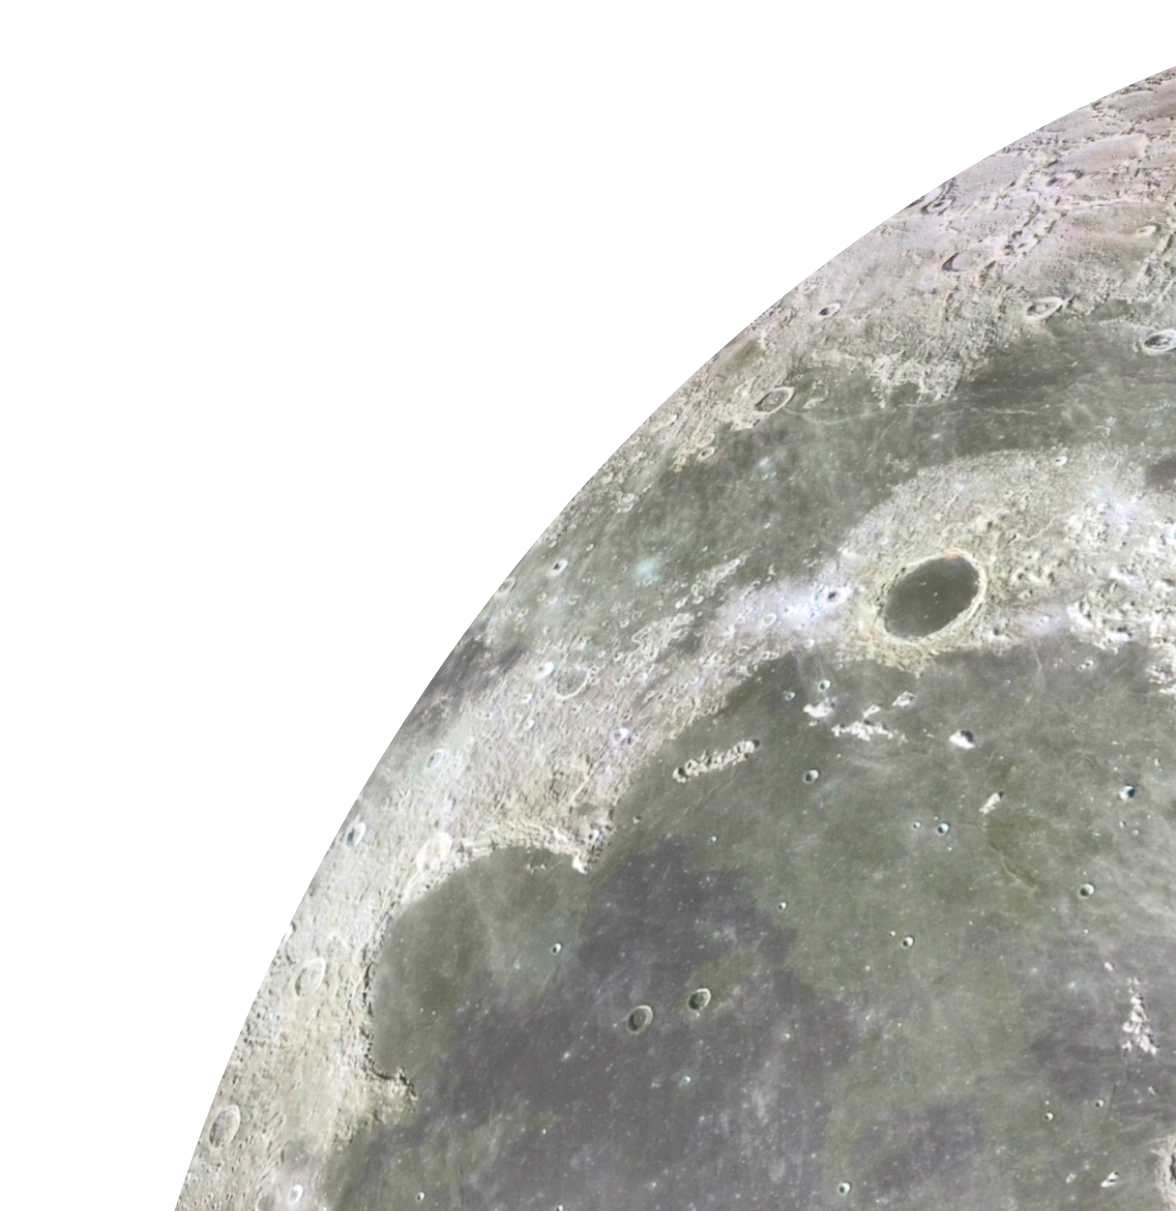
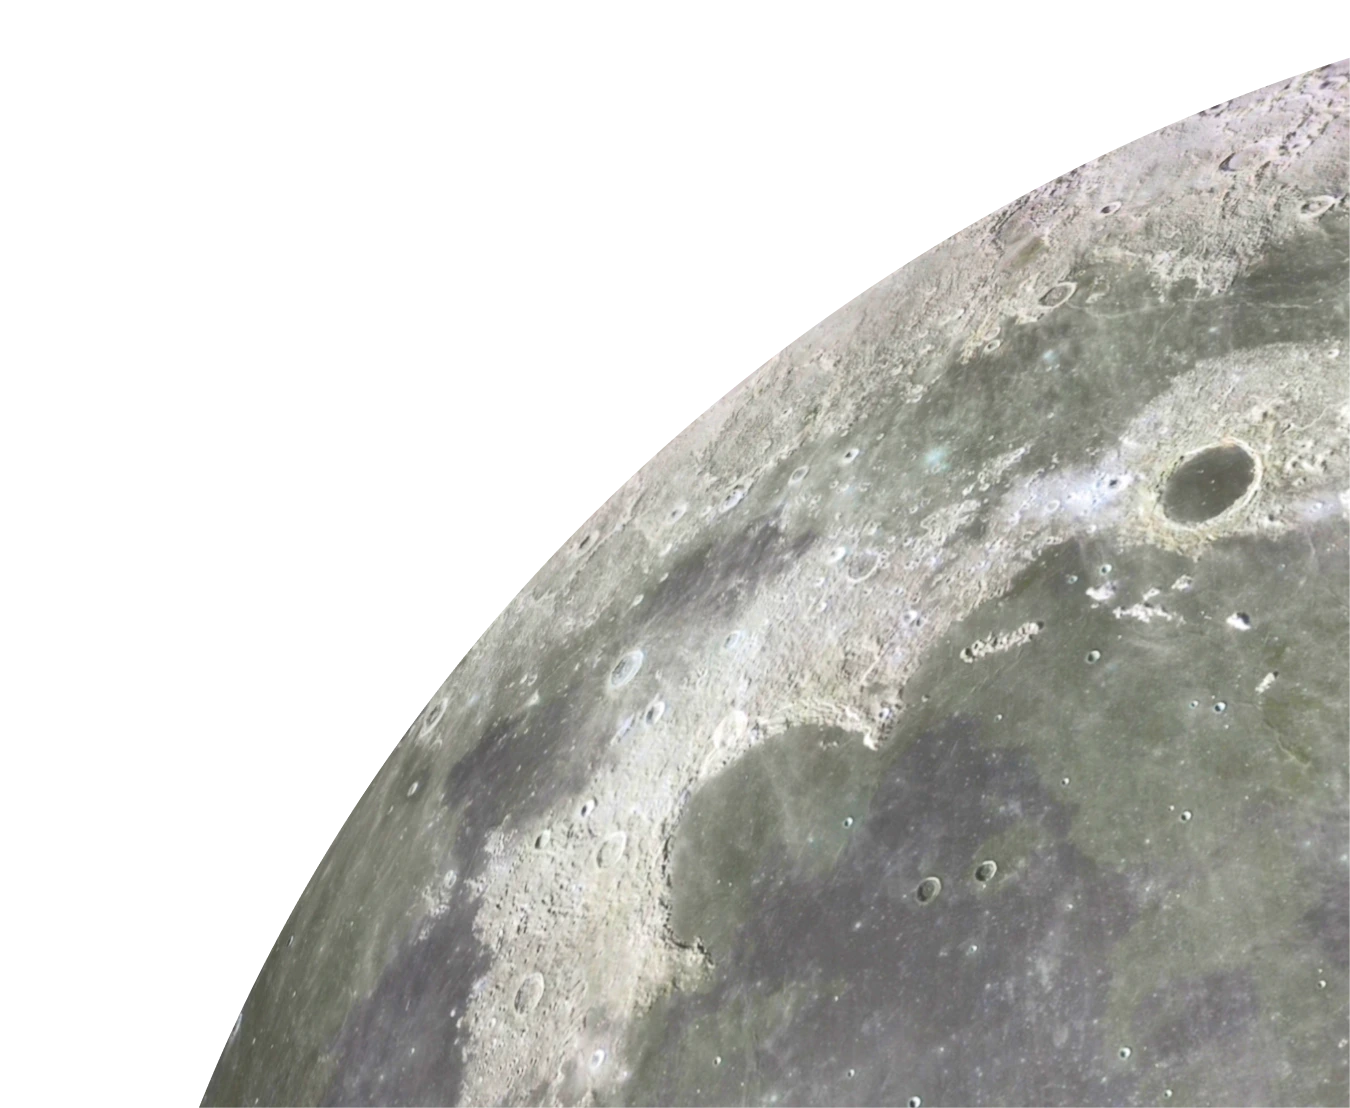
new assets added for hero section with minor style changes related to it

Changed region(s): [[0.1224, 0.0307, 1.0, 1.0]]

diff --git a/app/(marketing)/page.tsx b/app/(marketing)/page.tsx
@@ -93,7 +93,7 @@ const HeroSection: React.FC = () => {
   return (
     <Box position="relative" overflow="hidden" bg="#E6E5DE">
       {/* <BackgroundGradient height="100%" zIndex="-1" /> */}
-      <Container maxW="container.xl" pt={{ base: 20, lg: 20 }} pb={{base: "10", md: "40"}}>
+      <Container maxW="container.xl" pt={{ base: 20, lg: 20 }} pb={{base: "10", md: "14"}}>
         <Stack direction={{ base: 'column', lg: 'row' }} alignItems="center">
           <Hero
             id="home"
@@ -165,8 +165,9 @@ const HeroSection: React.FC = () => {
             height="600px"
             position="absolute"
             display={{ base: 'none', lg: 'block' }}
-            left={{ lg: '50%', xl: '63%' }}
-            top={{ lg: '-20%', xl: '-5%' }}
+            left={{ lg: '50%', xl: '75%' }}
+            //top={{ lg: '-20%', xl: '-5%' }}
+            bottom={{ lg: '-20%', xl: '-30%' }}
             width="80vw"
             maxW="1100px"
             margin="0 auto"
@@ -175,8 +176,8 @@ const HeroSection: React.FC = () => {
               <Box overflow="hidden" height="100%">
                 <Image
                   src="/static/homepage/HeroSideImg.webp"
-                  width={1088}
-                  height={1299}
+                  width={449.92}
+                  height={369.26}
                   alt="Moon Img"
                   quality="75"
                   priority

diff --git a/app/eligibility/page.tsx b/app/eligibility/page.tsx
@@ -151,8 +151,9 @@ const HeroSection: React.FC = () => {
             height="600px"
             position="absolute"
             display={{ base: 'none', lg: 'block' }}
-            left={{ lg: '50%', xl: '63%' }}
-            top={{ lg: '-20%', xl: '-5%' }}
+            left={{ lg: '50%', xl: '75%' }}
+            //top={{ lg: '-20%', xl: '-5%' }}
+            bottom={{ lg: '-20%', xl: '-30%' }}
             width="80vw"
             maxW="1100px"
             margin="0 auto"
@@ -161,8 +162,8 @@ const HeroSection: React.FC = () => {
               <Box overflow="hidden" height="100%">
                 <Image
                   src="/static/homepage/HeroSideImg.webp"
-                  width={1088}
-                  height={1299}
+                  width={449.92}
+                  height={369.26}
                   alt="Moon Img"
                   quality="75"
                   priority
